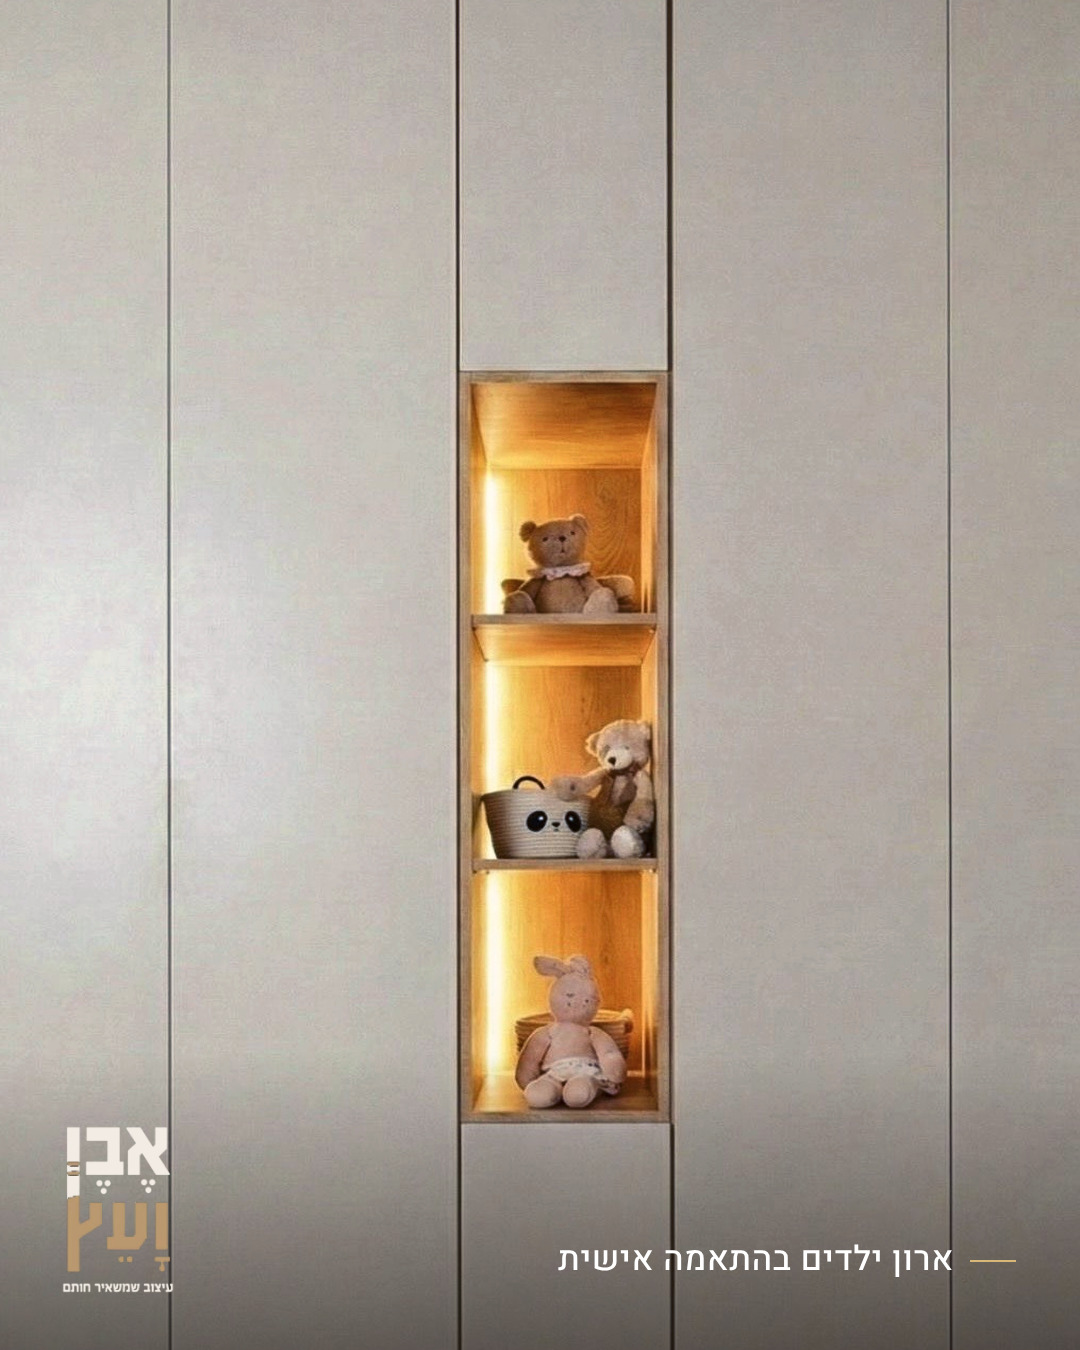
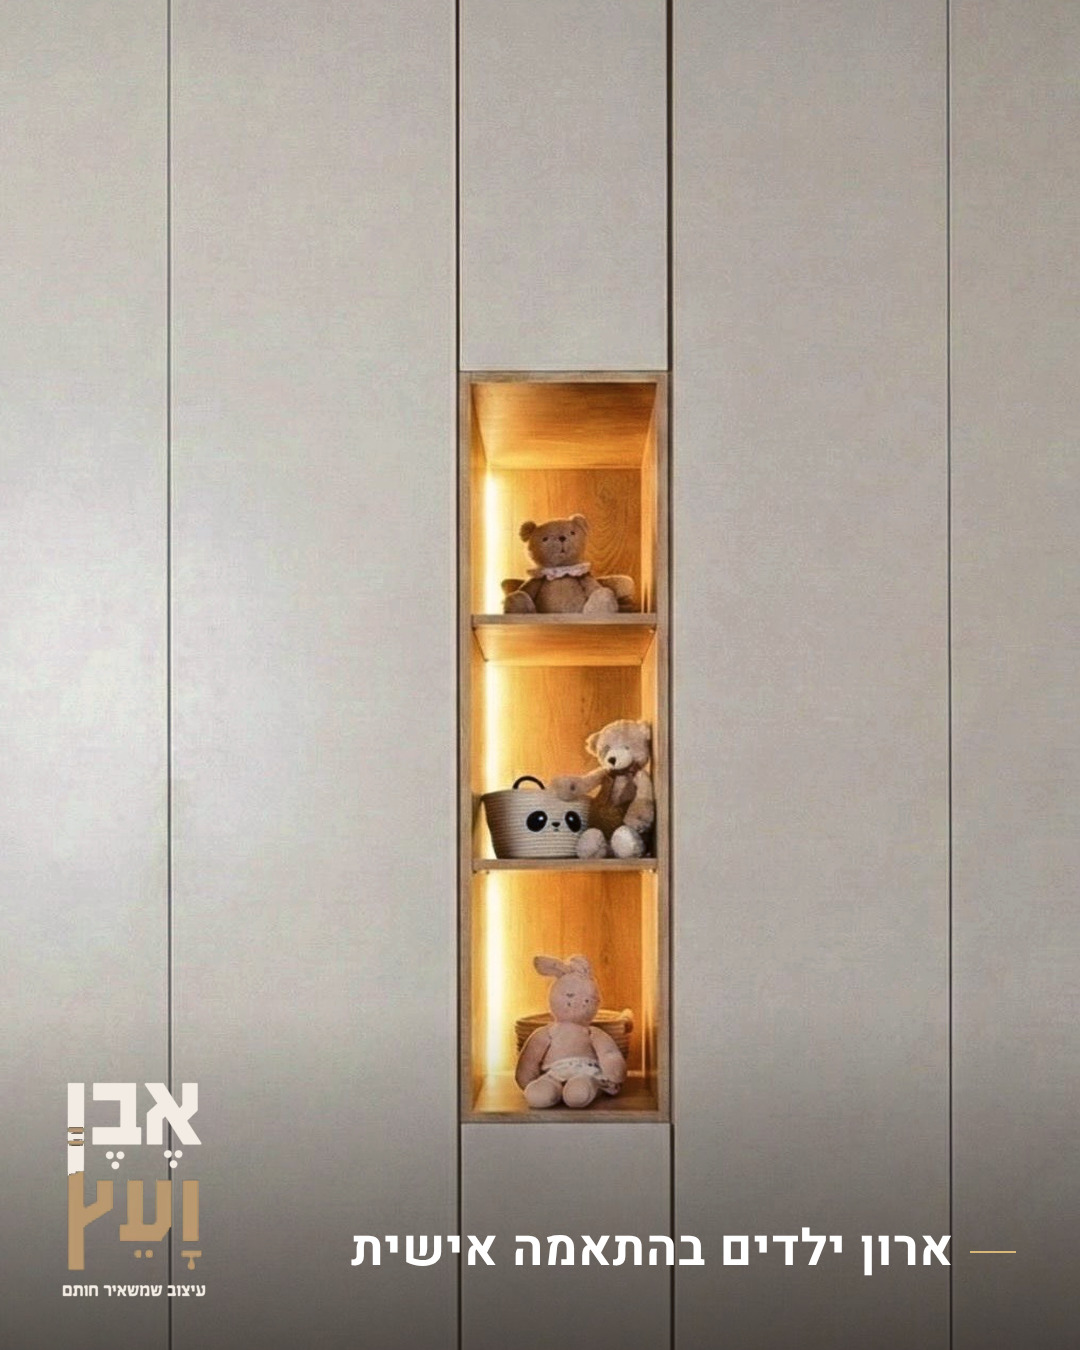
Kids closet flow 2: plan and drafts approved by CEO (2 gates), ready for her approval
Claude-Session: https://claude.ai/code/session_01SxptKATtGTeS52fUeg3zyQ

Changed region(s): [[0.3056, 0.9022, 0.8861, 0.9644], [0.0611, 0.7778, 0.1833, 0.9644]]

diff --git a/projects/2026-10-kids-closet/flow2/post/slides.html b/projects/2026-10-kids-closet/flow2/post/slides.html
@@ -13,13 +13,13 @@ body{width:1080px;font-family:"Heebo"}
 .full{position:absolute;inset:0;width:1080px;height:1350px}
 
 /* S1 quiet luxury cover */
-#s1 .foot{position:absolute;left:0;right:0;bottom:0;height:300px;background:linear-gradient(0deg,rgba(24,18,14,.55),rgba(24,18,14,0))}
-#s1 .cap{position:absolute;right:64px;bottom:66px;font:500 34px "Heebo";letter-spacing:.02em;color:#fff;direction:rtl}
+#s1 .foot{position:absolute;left:0;right:0;bottom:0;height:340px;background:linear-gradient(0deg,rgba(24,18,14,.62),rgba(24,18,14,0))}
+#s1 .cap{position:absolute;right:64px;bottom:64px;font:700 50px "Heebo";letter-spacing:.02em;color:#fff;direction:rtl}
 #s1 .cap i{display:inline-block;width:46px;height:2px;background:var(--gold);vertical-align:middle;margin-left:16px}
-#s1 .logo{position:absolute;left:58px;bottom:52px;width:120px}
+#s1 .logo{position:absolute;left:56px;bottom:46px;width:156px}
 
 /* S2 open, bold line */
-#s2 .shade{position:absolute;left:0;right:0;top:0;height:520px;background:linear-gradient(180deg,rgba(24,18,14,.66),rgba(24,18,14,.35) 50%,rgba(24,18,14,0))}
+#s2 .shade{position:absolute;left:0;right:0;top:0;height:560px;background:linear-gradient(180deg,rgba(24,18,14,.78),rgba(24,18,14,.72) 40%,rgba(24,18,14,0))}
 #s2 .h{position:absolute;right:64px;top:70px;font:850 94px/1.04 "Heebo";letter-spacing:-.01em;color:#fff;direction:rtl}
 #s2 .h em{font-style:normal;color:var(--gold)}
 
@@ -31,10 +31,11 @@ body{width:1080px;font-family:"Heebo"}
 
 /* S4 logo end */
 #s4{background:linear-gradient(180deg,#4a3323,#2b1d13)}
-#s4 .logo{position:absolute;left:50%;top:330px;width:330px;transform:translateX(-50%)}
-#s4 .rule{position:absolute;left:50%;top:800px;width:110px;height:3px;background:var(--gold);transform:translateX(-50%)}
-#s4 .q{position:absolute;left:0;right:0;top:850px;text-align:center;font:800 60px "Heebo";color:#fff;direction:rtl}
-#s4 .a{position:absolute;left:0;right:0;top:945px;text-align:center;font:400 44px "Heebo";color:#e9dccb;direction:rtl}
+#s4 .logo{position:absolute;left:50%;top:280px;width:260px;transform:translateX(-50%)}
+#s4 .rule{position:absolute;left:50%;top:740px;width:110px;height:3px;background:var(--gold);transform:translateX(-50%)}
+#s4 .q{position:absolute;left:0;right:0;top:790px;text-align:center;font:800 60px "Heebo";color:#fff;direction:rtl}
+#s4 .a{position:absolute;left:0;right:0;top:885px;text-align:center;font:400 44px "Heebo";color:#e9dccb;direction:rtl}
+#s4 .w{position:absolute;left:0;right:0;top:965px;text-align:center;font:500 34px "Heebo";color:#d8b878;direction:rtl}
 </style>
 </head>
 <body>
@@ -49,19 +50,16 @@ body{width:1080px;font-family:"Heebo"}
 <section class="slide" id="s2">
   <img class="full" src="s2.png" alt="" />
   <div class="shade"></div>
-  <div class="h">יש פה הרבה יותר<br /><em>ממה שנראה.</em></div>
+  <div class="h">יש כאן הרבה יותר<br /><em>ממה שנראה.</em></div>
 </section>
 
-<section class="slide" id="s3">
-  <div class="h">פינה מוארת<br /><em>לדברים האהובים.</em></div>
-  <img class="pic" src="s3.png" alt="" />
-</section>
 
 <section class="slide" id="s4">
   <img class="logo" src="logo_light.png" alt="אבן ועץ" />
   <div class="rule"></div>
   <div class="q">מתכננים חדר ילדים?</div>
   <div class="a">פגישת ייעוץ והדמיה ללא עלות</div>
+  <div class="w">דברו איתנו בוואטסאפ</div>
 </section>
 
 </body>

diff --git a/projects/2026-10-kids-closet/flow2/plan.md b/projects/2026-10-kids-closet/flow2/plan.md
@@ -1,50 +1,53 @@
-# ארון ילדים: תוכנית המפיק (שער תוכנית, סבב 1)
+# ארון ילדים: תוכנית המפיק (שער תוכנית, סבב 2, אחרי תיקוני המנכ"ל)
 
 > תוקן לפי הערות המנכ"ל משער הרעיון (סבב 1).
 
-## רילס: "מבפנים החוצה", 15.5 שניות
-**מטרה:** חשיפה. **ערך:** מקצועיות (תכנון שחושב על הילד ועל ההורים).
+## רילס: "מבפנים החוצה", כ-15 שניות
+**מטרה:** חשיפה. **ערך:** מקצועיות (תכנון חכם).
 
 | זמן | אירוע | טקסט |
 |---|---|---|
-| 0–1.4 | **פריים 0:** הנישה המוארת כולה (הגדלה עד פי 1.7), הקיר סביבה מוכהה בהכהיה מלבנית רכה, ו-Push עדין | **מקום של כבוד.** |
-| 1.4–2.6 | Pull-out עם Speed ramp (מהיר ואז איטי) לחדר כולו. ההכהיה עולה | — |
-| 2.0–3.6 | עצירה רחבה על הקיר בחדר (בלי זום לראש הדלתות, שהוא AI) | **באמצע קיר שקט.** |
-| 3.6–4.0 | צעד קדימה לארון (Punch) | — |
-| 4.0–6.3 | **מהלך חתימה חדש:** ארבע הדלתות נפתחות **על הביט**, אחת אחרי השנייה (0.55 שניות בין דלת לדלת). הנפשה ריאליסטית: עובי, צל, חפיפה | **ומאחורי הדלתות,** |
-| 6.3–9.0 | גלישה אנכית לאורך המדפים | **מקום לכל השאר.** |
-| 9.0–9.6 | עצירה קצרה (שקט) | — |
-| 9.6–10.3 | כל הדלתות נסגרות **יחד**, בבת אחת (שבירת דפוס) | — |
-| 10.3–12.3 | Pull-out לחדר, וההכהיה חוזרת: רק הנישה זוהרת. לולאה לפריים 0 | — |
-| 12.3–15.5 | כרטיס סיום על אספרסו חם: לוגו ו"ארון ילדים בהתאמה אישית" | (הפנייה בכיתוב) |
+| 0–1.4 | **פריים 0:** הנישה המוארת כולה (הגדלה עד פי 1.7). הכהיה מלבנית רכה, עד 45%, והחזיתות נשארות קריאות. Push עדין | **מקום של כבוד.** |
+| 1.4–2.6 | Pull-out עם Speed ramp לשוט הרחב. ההכהיה עולה. המסגור חותך מעל הדלתות, כך שרואים רק פיקסלים מקוריים | — |
+| 2.0–3.6 | עצירה רחבה על הארון | **בין דלתות חלקות.** |
+| 3.6–4.0 | Punch קדימה | — |
+| 4.0–6.3 | **מהלך חתימה:** פתיחה בשרשרת, כל 0.55 שניות. הדלתות החיצוניות נפתחות מהקירות, והפנימיות מעמוד הנישה. הדלתות הקטנות מעל הנישה ומתחתיה לא זזות | **ומאחורי הדלתות,** |
+| 6.3–7.6 | Punch למדפים בצד שמאל | **מקום לכל השאר.** |
+| 7.6–8.0 | Whip לצד ימין | — |
+| 8.0–9.4 | גלישה אנכית לאורך המדפים בצד ימין | — |
+| 9.4–10.1 | כל הדלתות נסגרות **יחד** (שבירת דפוס) | — |
+| 10.1–12.3 | Pull-out ולולאה לפריים 0: הנישה זוהרת. **הלוגו ו"ארון ילדים בהתאמה אישית" יושבים על אזור הרצפה** | לוגו + שורה |
+| 12.3–15.0 | החזקה, ומעבר שקט לאספרסו עם הלוגו (כ-2.5 שניות) | — |
 
 **מספרים:**
-- כ-11 אירועים, 3 משפחות מעברים: Speed ramp, פתיחה תלת-ממדית ו-Punch, סגירה משותפת ולולאה;
-- 4 כרטיסים, 11 מילים.
+- כ-13 אירועים;
+- 4 כרטיסים, 11 מילים;
+- הקצב (0.55 שניות) עובד גם בלי מוזיקה.
 
-**מוזיקה מומלצת:** קופסת נגינה או פסנתר עדין עם ביט רך, 100 BPM (0.6 שניות), כך שהדלתות נפתחות על הביט.
+**המלצת מוזיקה:** קופסת נגינה או פסנתר עדין עם ביט רך, כ-100 BPM. **להתחיל את השיר בדיוק על הביט**, כדי שהדלתות ייפלו עליו.
 
-## פוסט: 4 שקפים (טיוטות ב-`post/draft_1-4.jpg`)
-1. **שער, יוקרה שקטה:** הצילום האמיתי של הקיר הסגור. בתחתית, שורה קטנה ונקראת: "ארון ילדים בהתאמה אישית", ולוגו קטן. בלי כפתור.
-2. **פתוח, שורה מודגשת:** "יש פה הרבה יותר / ממה שנראה."
-3. **שקף כהה (ענבר ואספרסו) עם הנישה גדולה:** "פינה מוארת / לדברים האהובים."
-4. **סיום:** לוגו גדול על חום-אספרסו, "מתכננים חדר ילדים?" ו"פגישת ייעוץ והדמיה ללא עלות".
+## פוסט: 3 שקפים (טיוטות ב-`post/draft_1-3.jpg`)
+**מטרה:** פניות, וייחודיות (תכנון מקצועי). **ערך:** מקצועיות, ושירות (פגישת ייעוץ והדמיה).
 
-**פנייה לפעולה:** שקף 4, מותאם לפרויקט ומבוסס על עובדה מאושרת. בלי גלולה.
+1. **שער, יוקרה שקטה:** הצילום האמיתי של הארון הסגור, בלי כותרת. שורה נקראת: "ארון ילדים בהתאמה אישית", ולוגו. השער שונה בגריד משני קירות הטלוויזיה (Hero עם כותרת).
+2. **פתוח, אותו פריים:** "יש כאן הרבה יותר / ממה שנראה."
+3. **סיום:** לוגו על חום-אספרסו, "מתכננים חדר ילדים?", "פגישת ייעוץ והדמיה ללא עלות" ו"דברו איתנו בוואטסאפ".
+
+שקף הנישה ירד: היא חזרה כגיבורה בשלושה שקפים, והחיתוך היה רך.
 
 ## כיתובים
 **רילס (אינסטגרם):**
-ארון ילדים בהתאמה אישית, עם נישה מוארת באמצע קיר שקט.
-והכול נסגר בלי ידיות, בלי רעש.
-דברו איתנו בוואטסאפ.
+נישה מוארת, ומסביבה הרבה מקום.
+ארון ילדים בהתאמה אישית, עם חזיתות חלקות בלי ידיות.
+כתבו לנו בוואטסאפ, ונתכנן יחד.
 #ארוןילדים #חדרילדים #נגרותבהתאמהאישית #אבןועץ
 
 **פוסט (אינסטגרם):**
 ארון ילדים בהתאמה אישית, מתוכנן גם לילד וגם להורים.
-מבחוץ: קיר בגוון בז' מט, חלק ובלי ידיות, שמשאיר את החדר רגוע.
-באמצע: נישה מוארת בתאורה חמה, לבובות ולדברים האהובים.
+מבחוץ: חזית בגוון בז', חלקה ובלי ידיות, שמשאירה את החדר רגוע.
+באמצע: נישה עם תאורה חמה, לבובות ולמה שהילד הכי אוהב.
 ומאחורי הדלתות: מדפים לכל הגובה, משני הצדדים.
-מתכננים חדר ילדים? פגישת ייעוץ והדמיה ללא עלות. דברו איתנו בוואטסאפ.
+מתכננים חדר ילדים? פגישת ייעוץ והדמיה ללא עלות. מחכים להודעה שלכם בוואטסאפ.
 #ארוןילדים #עיצובחדרילדים #ארונותבהתאמהאישית #עיצובפנים #אבןועץ
 
 ## בדיקת כיסוי בריף
@@ -53,10 +56,17 @@
 | פרט | רילס | פוסט |
 |---|---|---|
 | ארון ילדים בהתאמה אישית | כרטיס הסיום, כיתוב | שקף 1, כיתוב |
-| נישה מוארת | "מקום של כבוד." ופריים 0 | שקף 3, כיתוב |
-| בלי ידיות, קיר שקט | "באמצע קיר שקט.", כיתוב ("בלי ידיות") | שקף 1 (ויזואלי), כיתוב |
-| אחסון מאחורי הדלתות | "ומאחורי הדלתות, / מקום לכל השאר." | שקף 2 ("יש פה הרבה יותר..."), כיתוב ("מדפים לכל הגובה") |
+| נישה מוארת | "מקום של כבוד." ופריים 0 | שקפים 1–2 (ויזואלי), כיתוב |
+| בלי ידיות, חזית שקטה | "בין דלתות חלקות.", כיתוב ("בלי ידיות") | שקף 1 (ויזואלי), כיתוב |
+| אחסון מאחורי הדלתות | "ומאחורי הדלתות, / מקום לכל השאר." | שקף 2 ("יש כאן הרבה יותר..."), כיתוב ("מדפים לכל הגובה") |
 
 ## אמת וממשק
 - **בלי "עץ" כחומר.** הגוון בפנים לא נמסר, ולכן הוא לא נזכר.
 - **שאריות ממשק בצילומי המסך:** כל החיתוכים בפוסט מוציאים אותן (נבדק בפינות). ברילס משתמשים בגרסאות שנוקו ב-v4.
+
+## שערי המנכ"ל
+1. **שער רעיון:**
+   - **רילס:** אושר עם תיקונים ("מקום של כבוד", Hook של הנישה כולה, מהלך חתימה חדש).
+   - **פוסט:** הוחזר ("הכול בז'", אין רעיון, CTA כתבנית).
+2. **שער תוכנית, סבב 1:** הוחזר. הערות על שקף הנישה, כיתובים, הקו בשקף הסיום, "יש פה", "קיר" וסוף הרילס.
+3. **שער תוכנית, סבב 2:** אושר עם תיקון זעיר ("ומסביבה"). בוצע.
